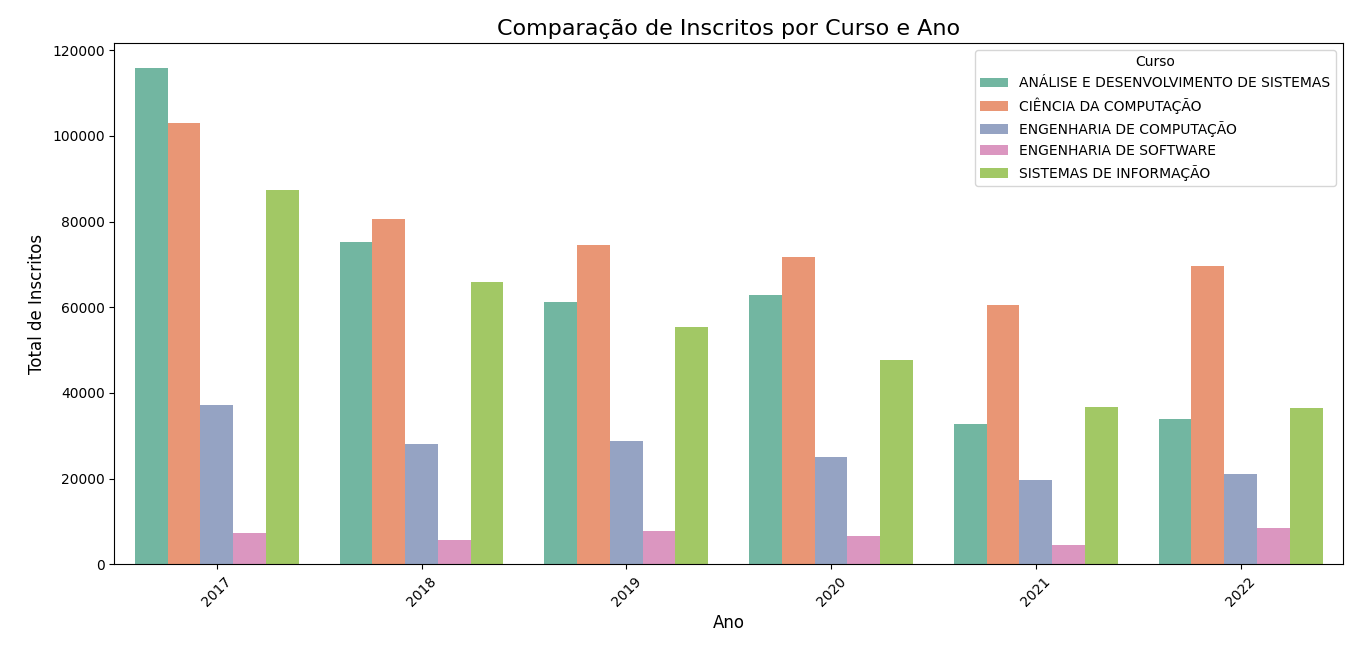
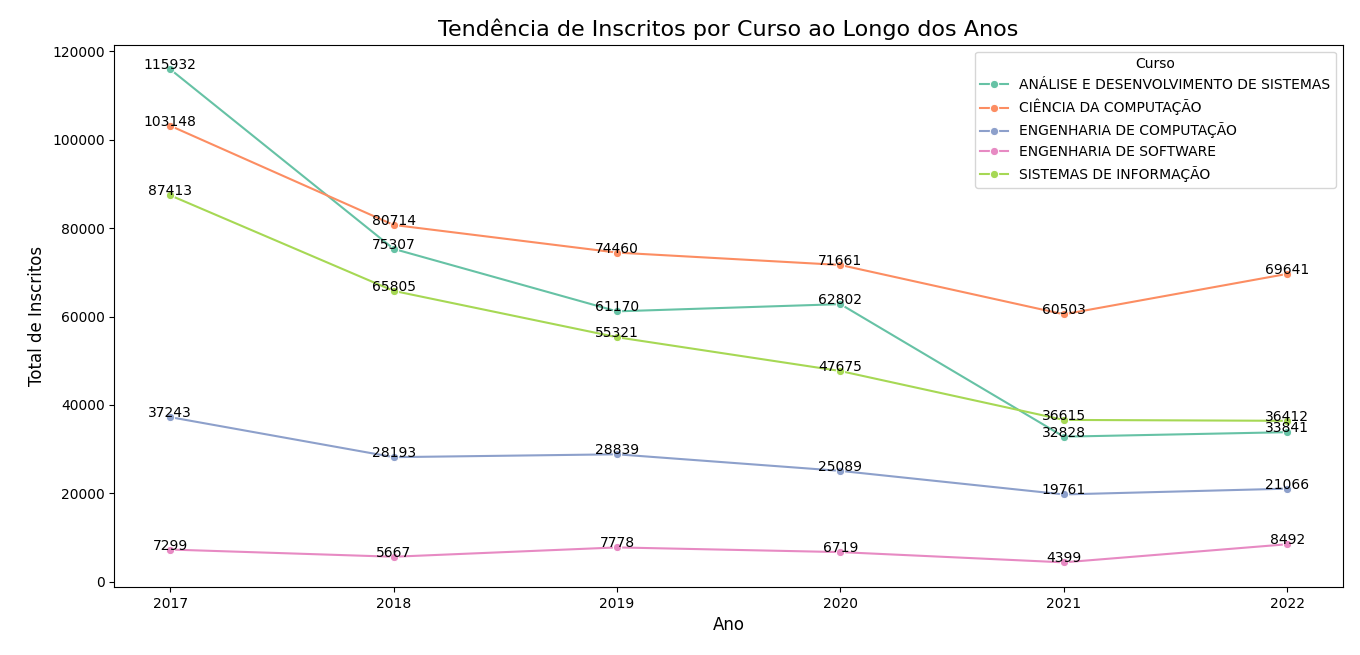
Visualização da Tendência de Inscritos por Curso

Changed region(s): [[0.0, 0.0611, 0.9882, 0.9466], [0.3088, 0.0305, 0.9882, 0.3053], [0.525, 0.9466, 0.5559, 0.9771]]

diff --git a/outputs/total_inscritos_cursos_tecnologia.py b/outputs/total_inscritos_cursos_tecnologia.py
@@ -6,16 +6,21 @@ import matplotlib.pyplot as plt
 # Carregando o arquivo CSV gerado pela query SQL
 df = pd.read_csv('outputs/total_inscritos_cursos_tecnologia.csv')
 
-# Criando o gráfico de barras agrupadas
+# Criando o gráfico de linhas
 plt.figure(figsize=(12, 6))
-sns.barplot(data=df, x='ano', y='total_inscritos', hue='curso', palette='Set2')
+sns.lineplot(data=df, x='ano', y='total_inscritos', hue='curso', marker='o', palette='Set2')
 
 # Personalizando o gráfico
-plt.title('Comparação de Inscritos por Curso e Ano', fontsize=16)
+plt.title('Tendência de Inscritos por Curso ao Longo dos Anos', fontsize=16)
 plt.xlabel('Ano', fontsize=12)
 plt.ylabel('Total de Inscritos', fontsize=12)
 plt.legend(title='Curso', fontsize=10)
-plt.xticks(rotation=45)
+
+# Adicionando rótulos de dados no gráfico de linha
+for curso in df['curso'].unique():
+    subset = df[df['curso'] == curso]
+    for x, y in zip(subset['ano'], subset['total_inscritos']):
+        plt.text(x, y, f'{y}', ha='center', fontsize=10)
 
 # Exibindo o gráfico
 plt.tight_layout()
